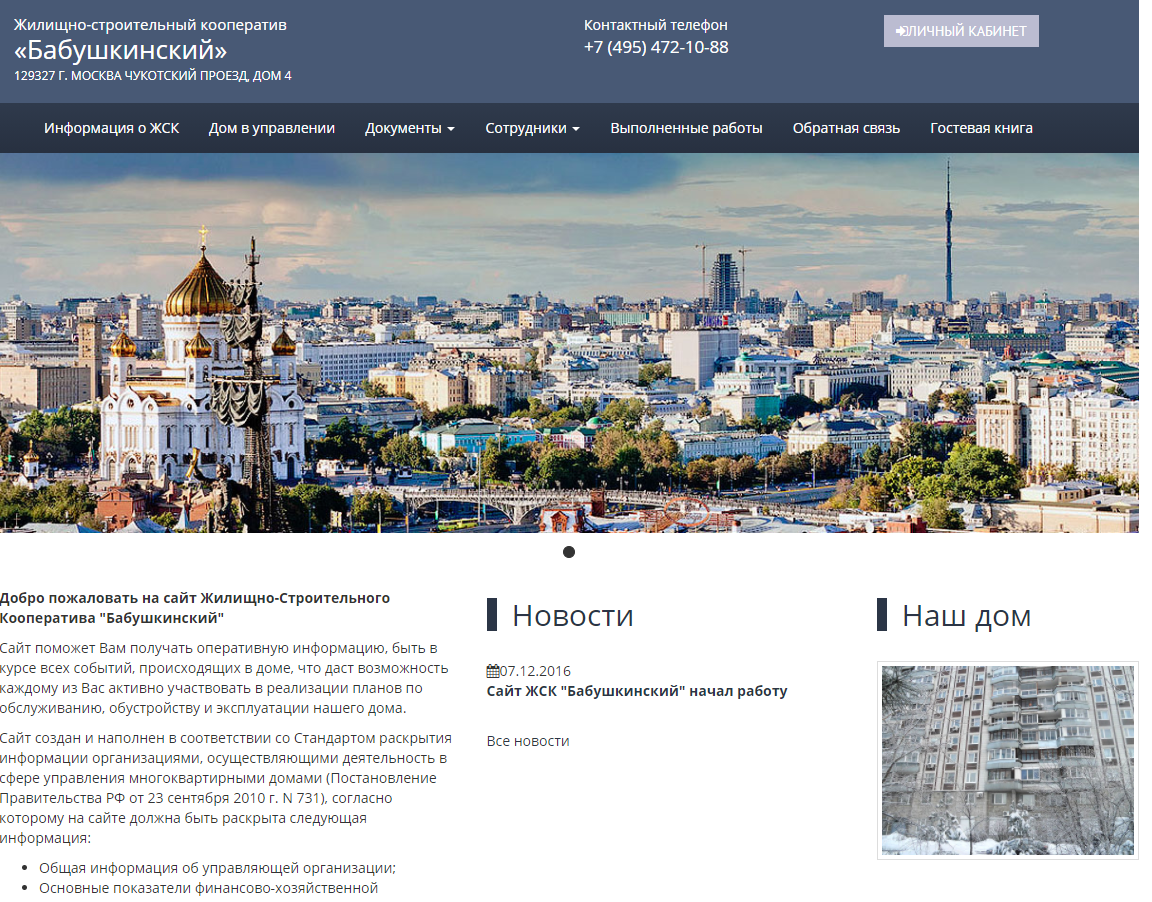
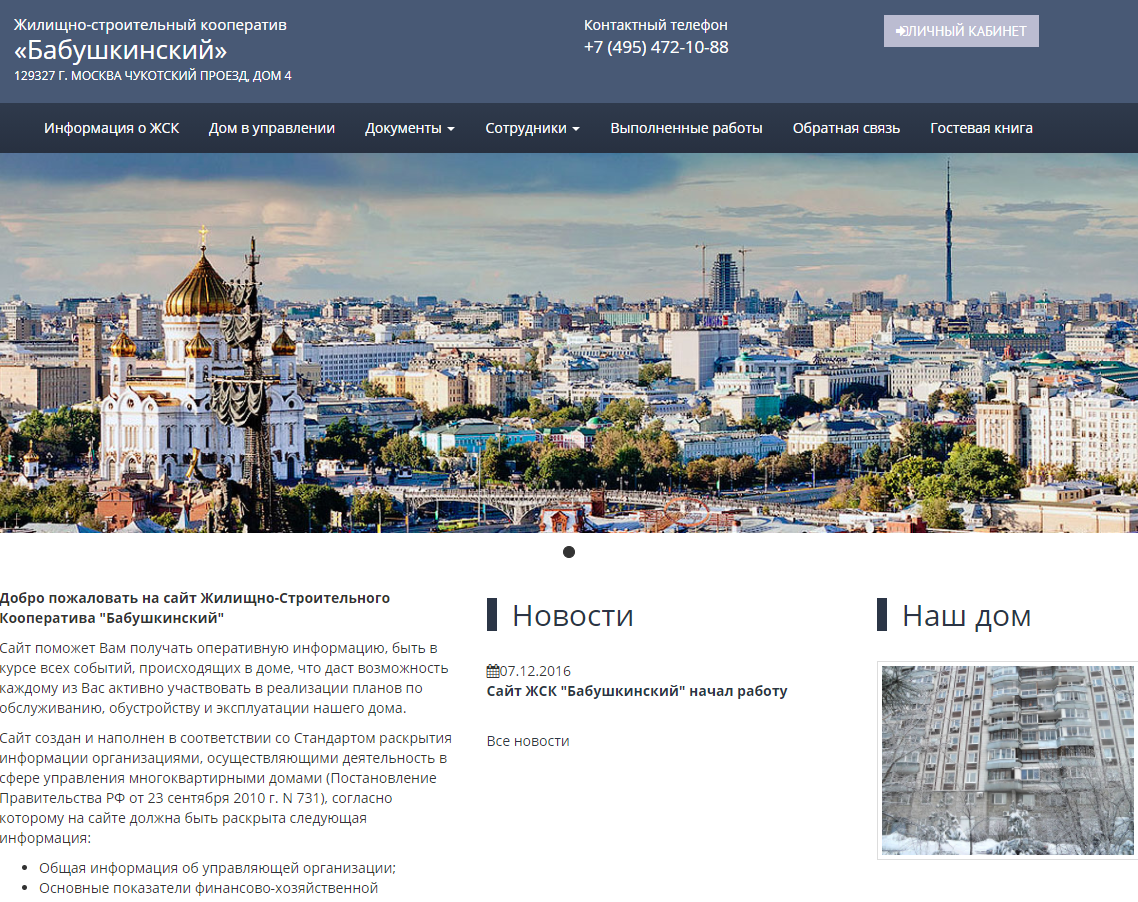
Add files via upload

diff --git a/index.html b/index.html
@@ -532,16 +532,7 @@
       <div class="contacts__addres">
         <div class="addres__part">
           <div class="part__logo">
-            <svg width="46" height="55" viewBox="0 0 46 55" fill="none" xmlns="http://www.w3.org/2000/svg" xmlns:xlink="http://www.w3.org/1999/xlink">
-              <rect width="46" height="55" fill="url(#pattern0)"/>
-              <defs>
-              <pattern id="pattern0" patternContentUnits="objectBoundingBox" width="1" height="1">
-              <use xlink:href="#image0" transform="translate(-0.00111893) scale(0.0175831 0.0147059)"/>
-              </pattern>
[1 lines of base64/hex data omitted]
-              </defs>
-              </svg>
-              
+            <img src="assets/img/msk.svg" alt="#">
           </div>
           <div class="part__text">
             <p>г. Москва,</p>

diff --git a/scss/style.scss b/scss/style.scss
@@ -27,12 +27,11 @@ header{
     cursor: default;
     div{
         text-transform: uppercase;
-        line-height: 26px;
-        font-size: 22px;
+        line-height: 1.4;
+        font-size: 16px;
     }
     img{
-        width: 64px;
-        height: 56px;
+        width: 44px;
         display: block;
         margin-right: 20px;
         fill-rule: evenodd;
@@ -169,7 +168,7 @@ header{
         font-style: normal;
         font-weight: 500;
         font-size: 18px;
-        line-height: 140%;
+        line-height: 170%;
         margin-bottom: 0;
     }
 }
@@ -230,6 +229,9 @@ header{
 
         border: none;
         border-radius: 0;
+    }
+    button:hover{
+        background-color: #1E92D7;
     }
     span{
         color:#1E92D7;
@@ -328,6 +330,9 @@ header{
         position: absolute;
         bottom:-2%;
         left: 27%;
+    }
+    button:hover{
+        background-color: #1E92D7;
     }
     .modal-dialog{
         max-width:775px;
@@ -478,6 +483,9 @@ header{
             position: relative;
             left: 0;
             bottom: 0;
+        }
+        button:hover{
+            background-color: #1E92D7;
         }
     }
 }
@@ -705,6 +713,9 @@ table {
         border:none;
         border-radius:0;
     }
+    button:hover{
+        background-color: #1E92D7;
+    }
 }
 
 .pos{
@@ -820,6 +831,9 @@ table {
         position: absolute;
         bottom:-5%;
         left: 40%;
+    }
+    button:hover{
+        background-color: #1E92D7;
     }
 }
 .gkh__text{
@@ -1025,6 +1039,14 @@ table {
 
         border: none;
         border-radius: 0;
+    }
+    button:hover{
+        background-color: #1E92D7;
+    }
+    .addres__part:first-child{
+        img{
+            width: 46px;
+        }
     }
 }
 .part__logo{

diff --git a/assets/CSS/style.css b/assets/CSS/style.css
@@ -10269,13 +10269,12 @@ header {
 
 .top__logo div {
   text-transform: uppercase;
-  line-height: 26px;
-  font-size: 22px;
+  line-height: 1.4;
+  font-size: 16px;
 }
 
 .top__logo img {
-  width: 64px;
-  height: 56px;
+  width: 44px;
   display: block;
   margin-right: 20px;
   fill-rule: evenodd;
@@ -10429,7 +10428,7 @@ header {
   font-style: normal;
   font-weight: 500;
   font-size: 18px;
-  line-height: 140%;
+  line-height: 170%;
   margin-bottom: 0;
 }
 
@@ -10493,6 +10492,10 @@ header {
   text-transform: uppercase;
   border: none;
   border-radius: 0;
+}
+
+.main__input button:hover {
+  background-color: #1E92D7;
 }
 
 .main__input span {
@@ -10593,6 +10596,10 @@ header {
   position: absolute;
   bottom: -2%;
   left: 27%;
+}
+
+.howmade__block button:hover {
+  background-color: #1E92D7;
 }
 
 .howmade__block .modal-dialog {
@@ -10754,6 +10761,10 @@ header {
   position: relative;
   left: 0;
   bottom: 0;
+}
+
+.howmade__block .modal-footer button:hover {
+  background-color: #1E92D7;
 }
 
 .howmade__block:nth-last-child(2) {
@@ -10989,6 +11000,10 @@ table {
   border-radius: 0;
 }
 
+.dop__info button:hover {
+  background-color: #1E92D7;
+}
+
 .pos {
   width: 100%;
 }
@@ -11104,6 +11119,10 @@ table {
   position: absolute;
   bottom: -5%;
   left: 40%;
+}
+
+.gkh button:hover {
+  background-color: #1E92D7;
 }
 
 .gkh__text {
@@ -11328,6 +11347,14 @@ table {
   text-transform: uppercase;
   border: none;
   border-radius: 0;
+}
+
+.contacts__addres button:hover {
+  background-color: #1E92D7;
+}
+
+.contacts__addres .addres__part:first-child img {
+  width: 46px;
 }
 
 .part__logo {
